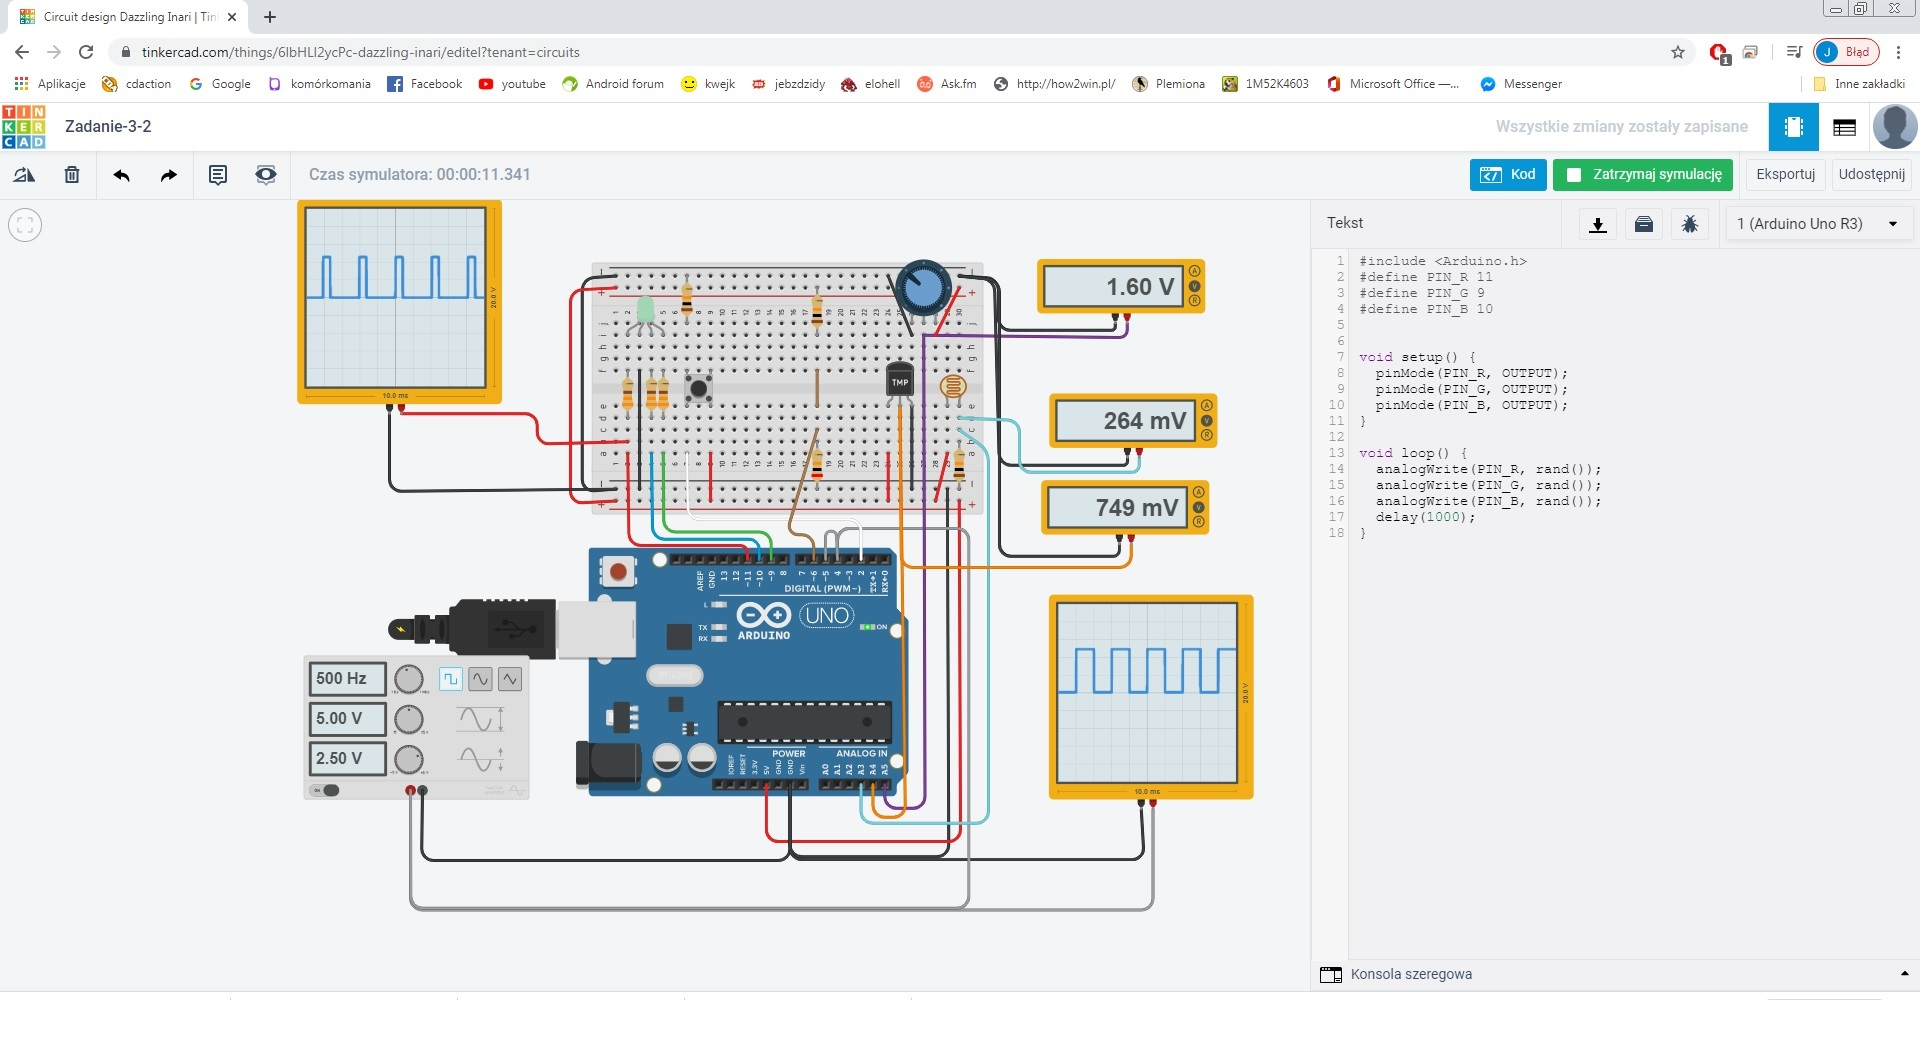
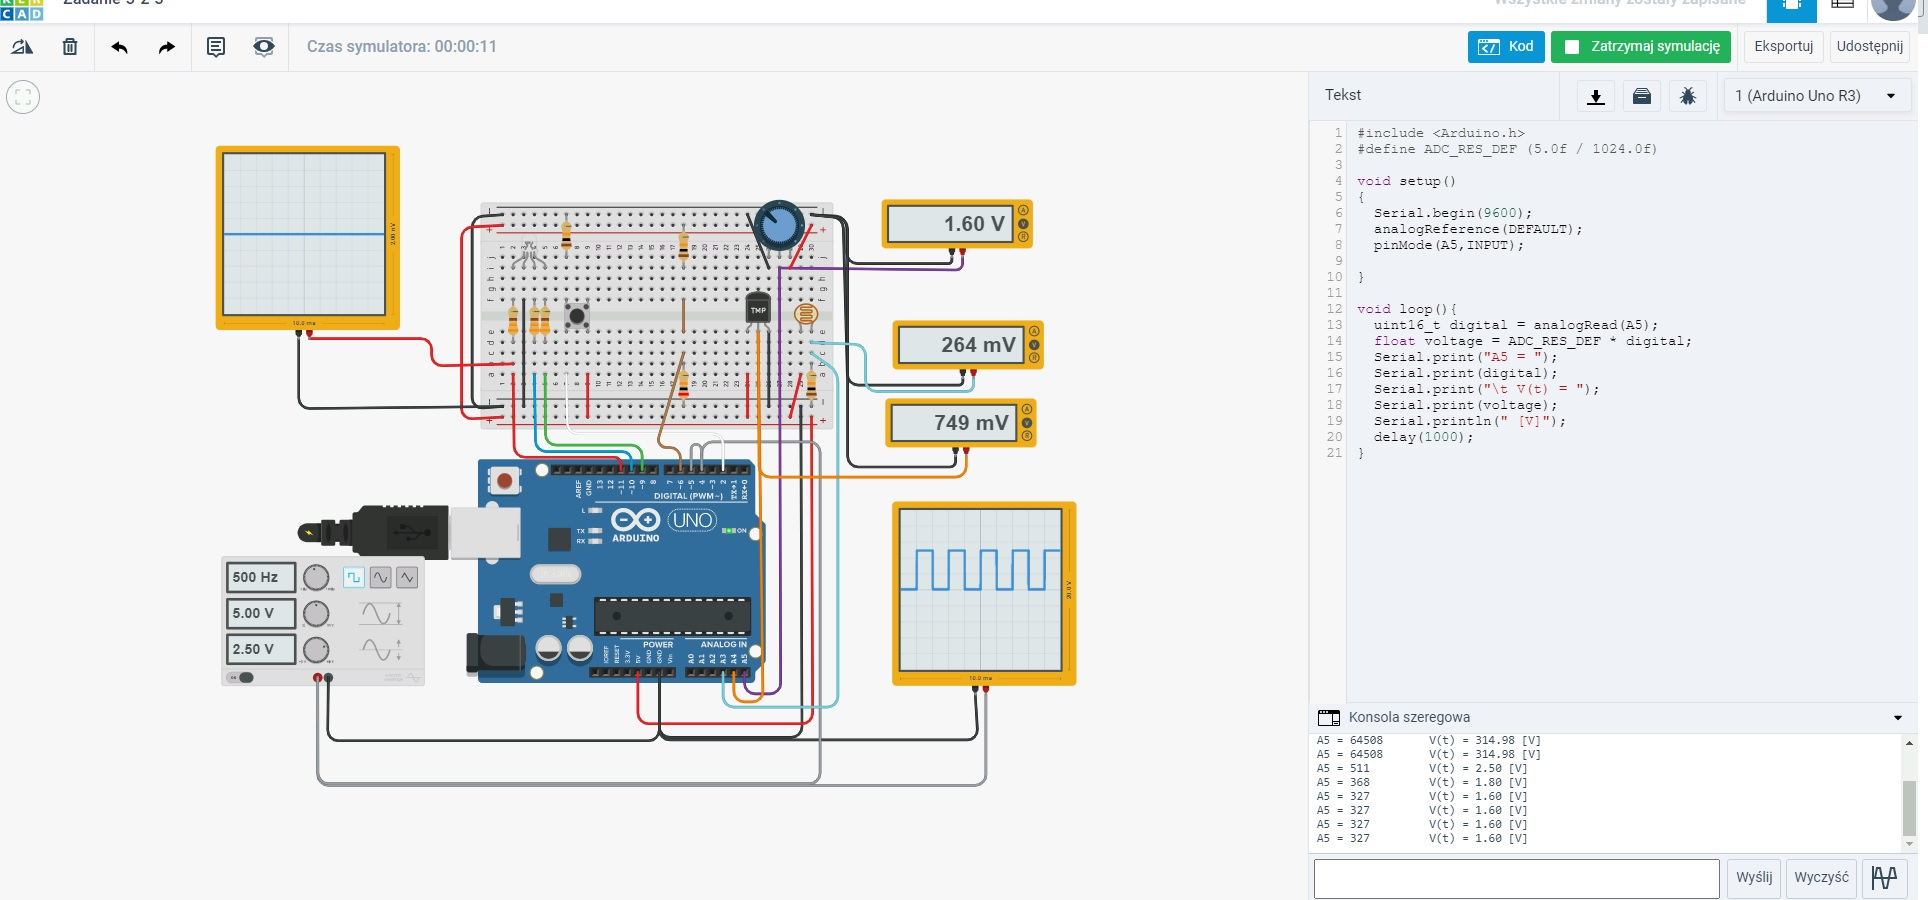
Wykonano zadanie 3.3.1 - analogRead

diff --git a/Zadanie-3-3/src/main.cpp b/Zadanie-3-3/src/main.cpp
@@ -1,9 +1,21 @@
 #include <Arduino.h>
+#define ADC_RES_DEF (5.0f / 1024.0f)
 
-void setup() {
-  // put your setup code here, to run once:
+void setup()
+{
+  Serial.begin(9600);
+  analogReference(DEFAULT);
+  pinMode(A5,INPUT);
+
 }
 
-void loop() {
-  // put your main code here, to run repeatedly:
+void loop(){
+  uint16_t digital = analogRead(A5);
+  float voltage = ADC_RES_DEF * digital;
+  Serial.print("A5 = ");
+  Serial.print(digital);
+  Serial.print("\t V(t) = ");
+  Serial.print(voltage);
+  Serial.println(" [V]");
+  delay(1000);
 }
